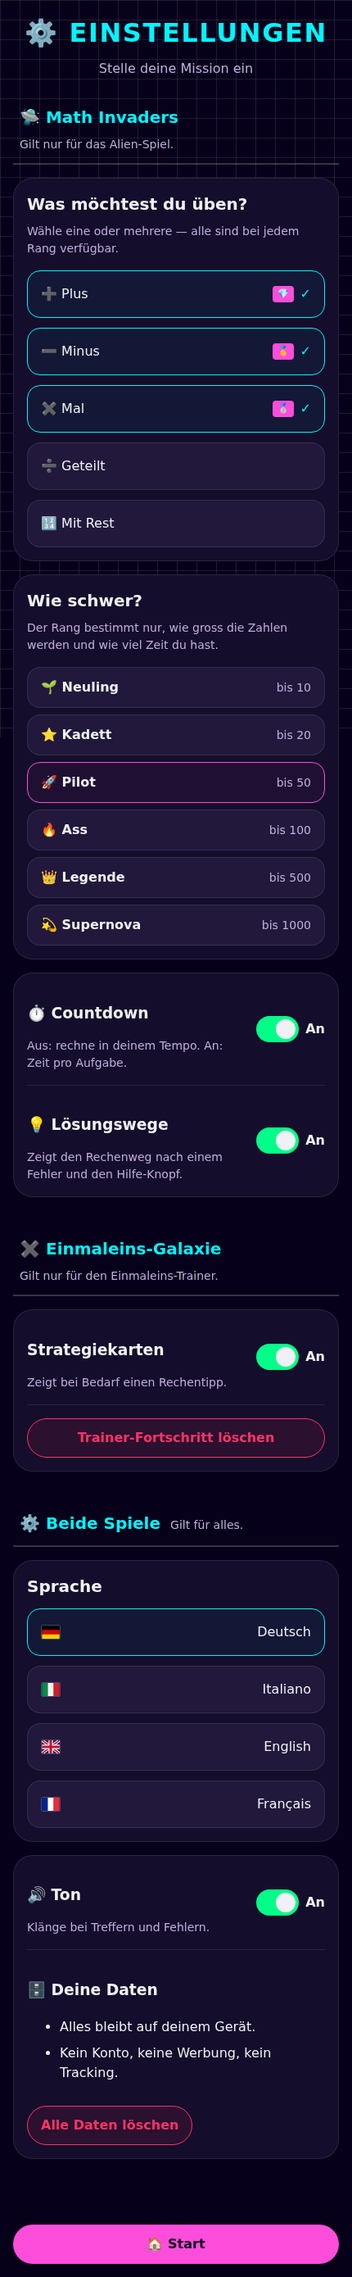
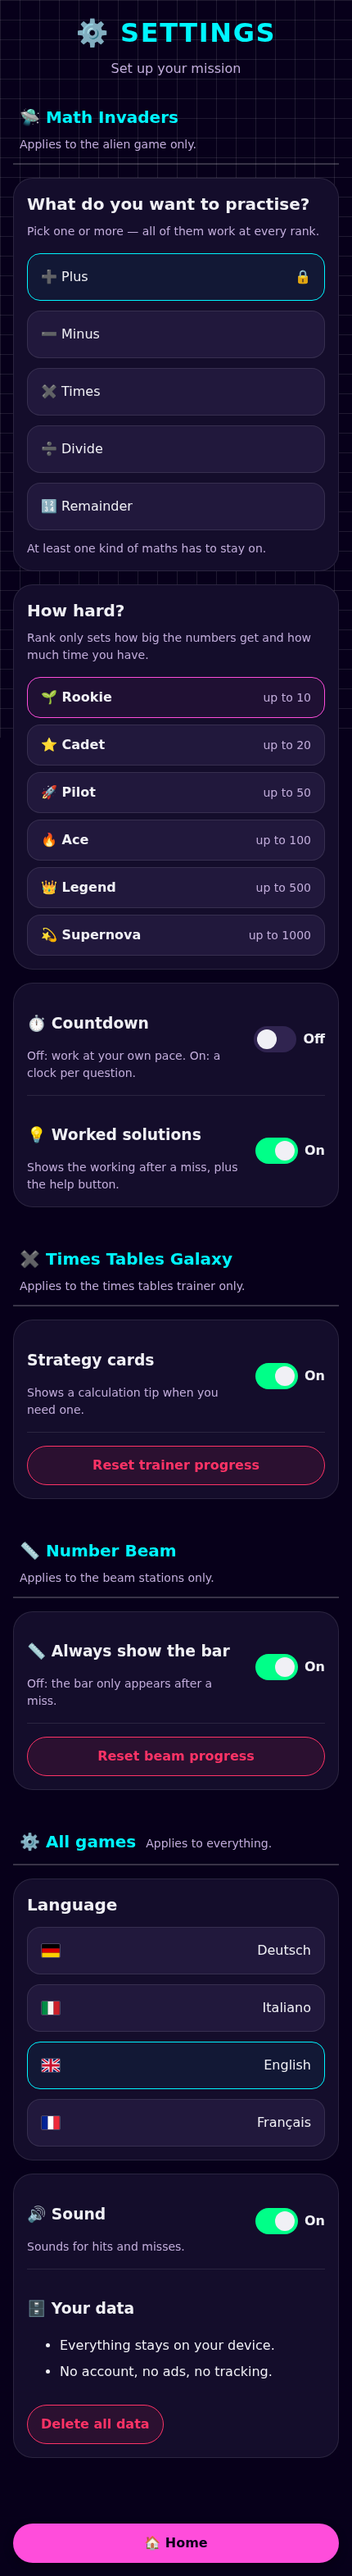
fix(i18n): say "all games" now that there are three
Adding Number Beam left the copy counting to two. The settings page still
grouped its shared controls under "⚙ Both games" in all four languages, which
is now simply wrong: language, sound and clearing your data apply to three.

- `groupShared` becomes All games / Alle Spiele / Tutti i giochi / Tous les jeux.
- `TopBar` and `useSoundSetting` explained themselves in terms of "both games";
  the reasoning still holds for three, so only the count changed.
- The settings suite named a test after two games sharing the page.

Two documentation lines were also left behind by the move to a beam-only input,
which landed in the previous commit: the testing guide still credited the beam
domain suite with checking "four distinct options", and described the end-to-end
drill as covering "both inputs". There is one input now, and the spec asserts the
tile grid is absent. The contributing guide asked translators to check "both
trainers" when there are three games to walk through.

Settings and home screenshots regenerated, since both show the group headings.

345 unit tests and 138 end-to-end tests pass; lint, typecheck and build clean.
All four languages verified in a browser: four groups, correct heading in each.

diff --git a/web/src/components/TopBar.tsx b/web/src/components/TopBar.tsx
@@ -10,9 +10,9 @@ type TopBarProps = {
 }
 
 /**
- * The single navigation bar for every game screen, in both games.
+ * The single navigation bar for every game screen, in every game.
  *
- * Both games previously invented their own chrome: the arcade had one bar, the
+ * Each game previously invented its own chrome: the arcade had one bar, the
  * trainer stacked two, and the arcade's Hall of Fame had none at all. One
  * component keeps the exit in the same corner wherever a child happens to be.
  */

diff --git a/web/src/hooks.ts b/web/src/hooks.ts
@@ -14,7 +14,7 @@ export function useDocumentLanguage(language: Language): void {
  * Applies the stored sound preference.
  *
  * `sound.ts` keeps one module-level flag for the whole app, so every screen that
- * makes a noise has to set it. Both games call this: without it, a child who
+ * makes a noise has to set it. Every game calls this: without it, a child who
  * switched sound off and went straight to the trainer still heard it, because
  * only the arcade game was applying the setting.
  */

diff --git a/web/src/i18n/it.ts b/web/src/i18n/it.ts
@@ -103,7 +103,7 @@ export const it: Translations = {
         groupTablesHint: 'Vale solo per l’allenatore di tabelline.',
         groupBeam: '📏 Barra dei numeri',
         groupBeamHint: 'Vale solo per le stazioni della barra.',
-        groupShared: '⚙ Entrambi i giochi',
+        groupShared: '⚙ Tutti i giochi',
         groupSharedHint: 'Vale per tutto.',
         resetConfirm: 'Cancellare davvero tutti i dati?',
     },

diff --git a/web/src/i18n/fr.ts b/web/src/i18n/fr.ts
@@ -103,7 +103,7 @@ export const fr: Translations = {
         groupTablesHint: 'Ne concerne que l’entraîneur de tables.',
         groupBeam: '📏 Barre des nombres',
         groupBeamHint: 'Ne concerne que les stations de la barre.',
-        groupShared: '⚙ Les deux jeux',
+        groupShared: '⚙ Tous les jeux',
         groupSharedHint: 'Concerne tout.',
         resetConfirm: 'Vraiment tout effacer ?',
     },

diff --git a/web/src/i18n/de.ts b/web/src/i18n/de.ts
@@ -103,7 +103,7 @@ export const de: Translations = {
         groupTablesHint: 'Gilt nur für den Einmaleins-Trainer.',
         groupBeam: '📏 Zahlenbalken',
         groupBeamHint: 'Gilt nur für die Balken-Stationen.',
-        groupShared: '⚙ Beide Spiele',
+        groupShared: '⚙ Alle Spiele',
         groupSharedHint: 'Gilt für alles.',
         resetConfirm: 'Wirklich alle Daten löschen?',
     },

diff --git a/web/src/i18n/en.ts b/web/src/i18n/en.ts
@@ -103,7 +103,7 @@ export const en: Translations = {
         groupTablesHint: 'Applies to the times tables trainer only.',
         groupBeam: '📏 Number Beam',
         groupBeamHint: 'Applies to the beam stations only.',
-        groupShared: '⚙ Both games',
+        groupShared: '⚙ All games',
         groupSharedHint: 'Applies to everything.',
         resetConfirm: 'Really delete all data?',
     },

diff --git a/web/src/pages/SettingsPage.test.tsx b/web/src/pages/SettingsPage.test.tsx
@@ -128,7 +128,7 @@ describe('SettingsPage', () => {
         expect(store.getPlayer()).not.toBeNull()
     })
 
-    it('offers only game-neutral navigation, because both games share this page', () => {
+    it('offers only game-neutral navigation, because every game shares this page', () => {
         seedLanguage('en')
         renderWithRouter(<SettingsPage />)
 

diff --git a/docs/TESTING.md b/docs/TESTING.md
@@ -61,7 +61,7 @@ What each area locks down:
 - **`game/options`** — always exactly four distinct options, one of which is the answer; every remainder distractor is itself legal.
 - **`game/questions`** — structural validity for every rank × operation × form, and that missing-operator prompts are only kept when exactly one operator fits.
 - **`game/mission`** — the mission reducer: streaks, combo scoring, phase transitions, and the guarantee that a run always reaches 25 questions.
-- **`beam/`** — every station × tier across 200 seeds: four distinct options, an answer that lands on a beam stop but never at its very end, both bar rows measured against one scale, a fraction's wanted parts summing to the answer, zone unlocking and the star ladder.
+- **`beam/`** — every station × tier across 200 seeds: a beam stop always exactly on the answer and never at either end, a beam long enough to be a number line and short enough to aim at, an answer that does not sit at a fixed fraction of the beam, both bar rows measured against one scale, a fraction's wanted parts summing to the answer, numbers that grow tier to tier, zone unlocking and the star ladder.
 - **`store/`** — the v1→v2 settings migration, score keying per rank and clock, badge tiers, and that tampered or corrupt localStorage degrades to defaults instead of throwing.
 - **`timesTable/`** — Leitner scheduling, session building, planet unlocking, star awards and strategy cards.
 - **`translations`** — full key parity across `de`/`it`/`en`/`fr`, equal array lengths, and matching `{placeholder}` sets.
@@ -140,8 +140,8 @@ Two projects run each spec: `chromium-desktop` (1280×800) and `chromium-mobile`
 | `settings.spec.ts` | Every control survives a reload; the last operation cannot be switched off; clearing data |
 | `hall-of-fame.spec.ts` | Empty state, grouping by rank and clock, medals, the legacy section |
 | `times-tables.spec.ts` | Galaxy map and locks, phase chooser, Learn end to end, Practice earning a star, Speed Run gating and timing, Daily Mission, heatmap tabs |
-| `number-beam.spec.ts` | Station map and zone locks, a full ten-question drill across both inputs, dragging/nudging/arrow-keying the alien along the beam, the bar revealing its numbers after a miss, hiding the bar, resetting beam progress |
-| `progression.spec.ts` | Rank and star progression across both games |
+| `number-beam.spec.ts` | Station map and zone locks, a full ten-question drill answered entirely on the beam with the tile grid asserted absent, dragging/nudging/arrow-keying the alien, the bar revealing its numbers after a miss, hiding the bar, resetting beam progress |
+| `progression.spec.ts` | Rank and star progression across the arcade and the trainer |
 | `a11y.spec.ts` | Heading structure, keyboard reachability, accessible names, dialog semantics, no positive `tabindex` |
 | `responsive.spec.ts` | No horizontal overflow and adequate touch targets at 360×640, 768×1024 and 1280×800 |
 | `pwa.spec.ts` | Manifest validity, service worker registration, survival across reload, the `404.html` redirect |

diff --git a/CHANGELOG.md b/CHANGELOG.md
@@ -40,14 +40,14 @@ and this project adheres to [Semantic Versioning](https://semver.org/spec/v2.0.0
   restoration to the control that opened it.
 
 ### Changed
-- **Settings and navigation are now split by game.** Both games shared one page with
+- **Settings and navigation are now split by game.** Every game shared one page with
   no indication of which control changed what; settings are grouped under 🛸 Math
-  Invaders, ✖ Times Tables Galaxy and ⚙ Both games. The trainer's top bar no longer
+  Invaders, ✖ Times Tables Galaxy, 📏 Number Beam and ⚙ All games. The trainer's top bar no longer
   links to the arcade leaderboard, and the shared settings page no longer sends you
   into the arcade game when you leave it.
 - **The home page explains each game separately** — the how-to section only ever
   described Math Invaders — and each game picker card now carries a one-line summary.
-- **One navigation bar for every game screen, in both games.** The arcade had its
+- **One navigation bar for every game screen, in every game.** The arcade had its
   own bar, the trainer stacked two, and the arcade's Hall of Fame had none at all —
   three patterns for the same job. A shared `TopBar` now puts the exit in the same
   corner everywhere, and each screen has exactly one `h1` (the arcade game screen

diff --git a/CONTRIBUTING.md b/CONTRIBUTING.md
@@ -76,7 +76,7 @@ The game supports German, Italian, English and French. To add another:
 6. Add the remainder separator in `web/src/game/equations.ts` (`remainderSeparator`)
 7. Run `npm test` — `i18n/translations.test.ts` checks key parity, array lengths and
    `{placeholder}` parity across every language, so a missing key fails the build
-8. Check every screen in the new language, including Settings and both trainers
+8. Check every screen in the new language, including Settings and all three games
 9. Submit a PR titled `feat: add [language] translation`
 
 ### Submitting Code
